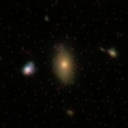
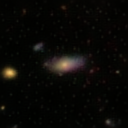
Readme added + minor changes

diff --git a/galaxy_generator.py b/galaxy_generator.py
@@ -3,11 +3,10 @@ from image_generator import ImageGenerator
 
 DEFAULT_CONFIG_PATH = 'models/GalaxyGen.json'
 
-
 def main():
     parser = ArgumentParser(
             prog='Galaxy image generator',
-            description='Generate images of galaxies using a pretrained VQ-VAE.'
+            description='Generate images of galaxies using a pretrained PixelCNN and VQ-VAE.'
         )
     
     parser.add_argument('-t', '--temperature', default=1.0)

diff --git a/README.md b/README.md
@@ -1,0 +1,82 @@
+# Galaxy Image Generator
+
+An image generator that produces GalaxyZoo-like images.
+
+## Usage
+
+To generate an image, execute the script as follows:
+```bash
+python galaxy_generator.py
+```
+
+The generation process can also be customised with a few parameters:
+- **Temperature** (`-t`): The temperature used for the generation process. 
+    Defaults to 1.0. <1 generates more standard images, >1 generates more varied images.
+- **Number of Images** (`-n`): The number of images to generate. Defaults to 1.
+- **Output File** (`-o`): The filename to call the output image(s). 
+    If there are multiple images, they will be numbered with the given name.
+- **Verbose** (`-v`): Flag to select whether or not to show more detailed error messages.
+
+Example with all parameters:
+```bash
+python galaxy_generator.py -n 5 -t 1.5 -o "my_image.png" -v
+```
+
+## Outputs
+
+The output images are 128x128 RGB images.
+By default, they are saved as a png, but jpegs are also allowed, if specified in the output parameter.
+
+## Architecture
+
+The generator uses two combined models: a Vector Quantised Variational Autoencoder (VQ-VAE) and a PixelCNN.
+The PixelCNN is trained on the latent space of the VQ-VAE.
+
+The pipeline works as follows (in pseudocode):
+```
+latent_grid_indices <- PixelCNN.sample()
+latent_vectors <- VQ-VAE.indices_to_vectors(latent_grid_indices)
+image <- VQ-VAE.decode(latent_vectors)
+```
+
+### The Composite Model
+
+The `ImageGenerator` class in `image_generator.py` loads the VQ-VAE and PixelCNN from a config file.
+It has one public function, `generate_image(output_file, temperature)`, which generates and saves an image.
+
+### VQ-VAE
+
+- **Input/Output Dimensions**: 128x128x3
+- **Latent Grid Dimensions**: 16x16
+- **Latent Vector Length**: 64
+- **Codebook Size**: 1024
+
+The vector quantiser uses exponential moving average (EMA) for updates.
+After training, codebook usage reached *>80%*.
+
+### PixelCNN
+
+- **Input/Output Channels**: 1024
+- **Residual Layers**: 12
+- **Filters Per Layer**: 128
+
+## Custom Models
+
+The codebase is extensible for custom models to be trained and used.
+
+### Loading Models
+
+Each model requires 3 files:
+- **Config**: A JSON file with the model parameters, as well as filepaths to the other two files. An example can be found at `models/GalaxyGen.json`.
+- **VQ-VAE Model**: A weights-only PyTorch model file for the VQ-VAE.
+- **PixelCNN Model**: A weights-only PyTorch model file for the PixelCNN.
+
+The `config.json` file can be passed into the `ImageGenerator` constructor, where error and consistency checks will be done.
+
+### Training Models
+
+The two training notebooks show how I trained my models.
+Due to resource limitations, I trained the VQ-VAE separate from the PixelCNN.
+This manner of training also produces a good bases for the sampling to work on top of.
+
+All training functions are in the respective model's `model_utils.py` file.